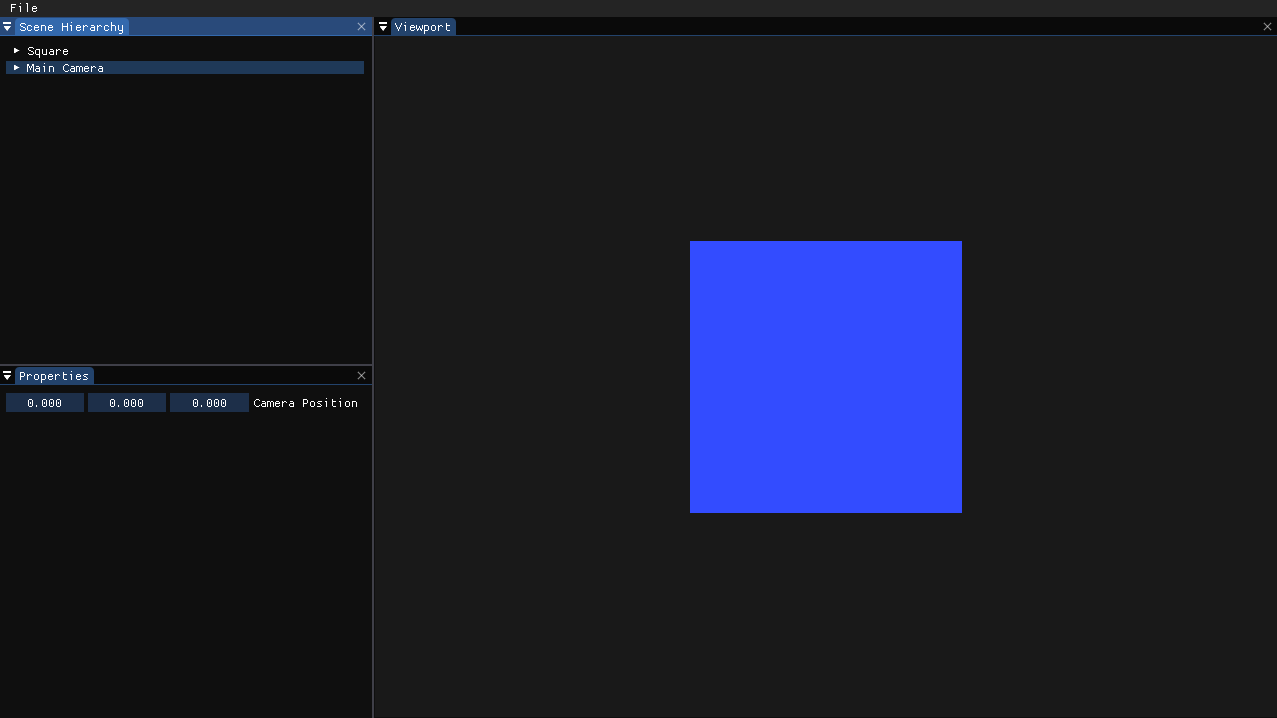
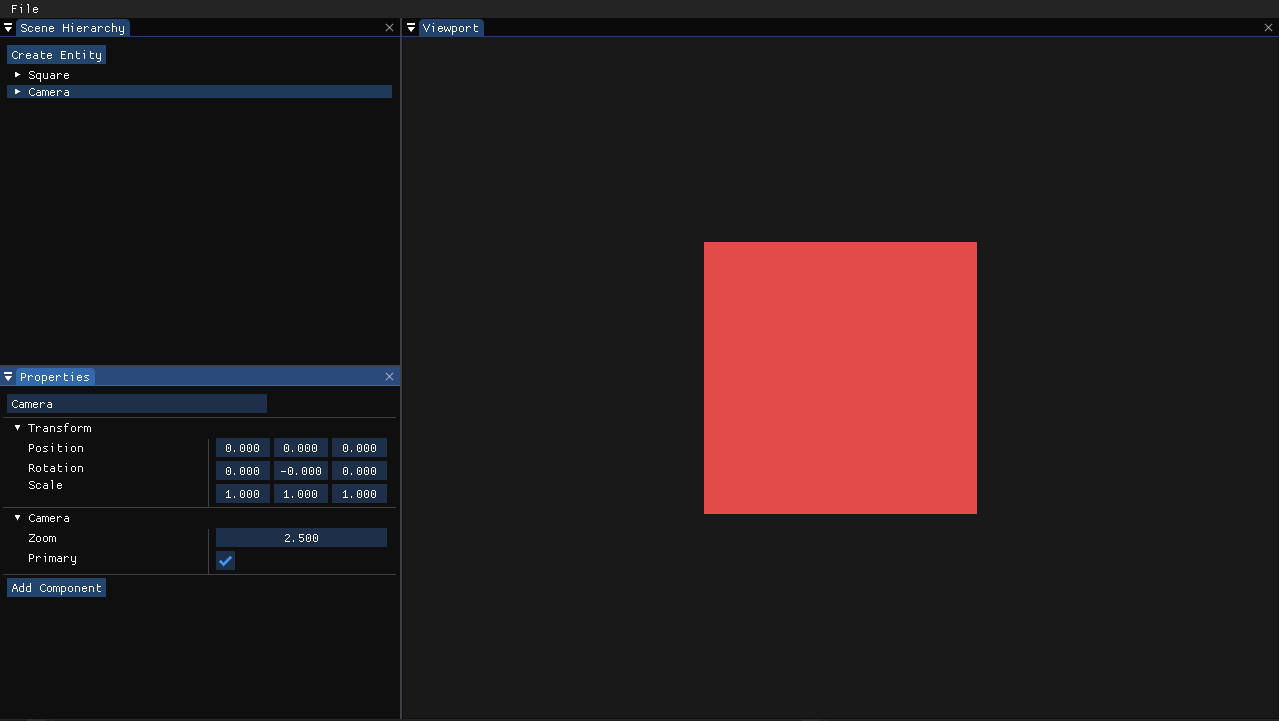
Deserialization

diff --git a/Mango/src/Mango/Scene/DataManager.cpp b/Mango/src/Mango/Scene/DataManager.cpp
@@ -25,7 +25,7 @@ namespace Mango {
 				// Tag Component
 				{
 					std::string tag = entity.GetComponent<TagComponent>().Tag;
-					j[std::to_string(ID)]["components"]["tag"] = tag;
+					j["entities"][std::to_string(ID)]["components"]["tag"] = tag;
 				}
 
 				// Transform Component
@@ -33,7 +33,7 @@ namespace Mango {
 					float4x4 mat; XMStoreFloat4x4(&mat, entity.GetComponent<TransformComponent>().Transform);
 					std::vector<float> matData; matData.resize(16);
 					memcpy(matData.data(), ValuePtr(mat), sizeof(mat));
-					j[std::to_string(ID)]["components"]["transform"] = matData;
+					j["entities"][std::to_string(ID)]["components"]["transform"] = matData;
 				}
 
 				// Camera Component
@@ -41,10 +41,11 @@ namespace Mango {
 					if (entity.HasComponent<CameraComponent>()) {
 						auto& cam = entity.GetComponent<CameraComponent>();
 						if (cam.Camera->GetType() == Camera::Type::Orthographic) {
-							j[std::to_string(ID)]["components"]["camera"]["zoom"] = std::static_pointer_cast<OrthographicCamera>(cam.Camera)->GetZoom();
+							j["entities"][std::to_string(ID)]["components"]["camera"]["type"] = "orthographic";
+							j["entities"][std::to_string(ID)]["components"]["camera"]["zoom"] = std::static_pointer_cast<OrthographicCamera>(cam.Camera)->GetZoom();
 						}
-						j[std::to_string(ID)]["components"]["camera"]["aspectRatio"] = cam.Camera->GetAspectRatio();
-						j[std::to_string(ID)]["components"]["camera"]["primary"] = cam.Primary;
+						j["entities"][std::to_string(ID)]["components"]["camera"]["aspectRatio"] = cam.Camera->GetAspectRatio();
+						j["entities"][std::to_string(ID)]["components"]["camera"]["primary"] = cam.Primary;
 					}
 				}
 
@@ -52,21 +53,74 @@ namespace Mango {
 				{
 					if (entity.HasComponent<SpriteRendererComponent>()) {
 						auto& sprite = entity.GetComponent<SpriteRendererComponent>();
-						j[std::to_string(ID)]["components"]["sprite"]["color"] = { sprite.Color.x, sprite.Color.y, sprite.Color.z, sprite.Color.w};
+						j["entities"][std::to_string(ID)]["components"]["sprite"]["color"] = { sprite.Color.x, sprite.Color.y, sprite.Color.z, sprite.Color.w};
 					}
 				}
 			}
 		}
 		
 		std::ofstream file(filename, std::ios::out);
-		MG_CORE_ASSERT(file.is_open(), "Failed to write to file '{0}'.", filename);
+		MG_CORE_ASSERT(file.is_open(), "Failed to write to scene file '{0}'.", filename);
 		file << j.dump(4);
 		file.close();
 	}
 
 	Ref<Scene> DataManager::DeserializeScene(const std::string& filename)
 	{
-		return Ref<Scene>();
+		auto scene = CreateRef<Scene>();
+
+		std::fstream file(filename);
+		MG_CORE_ASSERT(file.is_open(), "Failed to read from scene file '{0}'.", filename);
+		std::stringstream ss;
+		ss << file.rdbuf();
+		std::string scenestring = ss.str();
+		json j = json::parse(scenestring);
+
+		json& entities = j["entities"];
+		for (auto& e : entities)
+		{
+			json& components = e["components"];
+			Entity entity = scene->Create(components["tag"]);
+
+			// Transform
+			{
+				float4x4 transform;
+				std::vector<float> trans = components["transform"];
+				memcpy(&transform, trans.data(), sizeof(transform));
+				entity.GetComponent<TransformComponent>().Transform = XMLoadFloat4x4(&transform);
+			}
+
+			// Camera
+			{
+				if (components.find("camera") != components.end()) {
+					json camera = components["camera"];
+
+					if (camera["type"] == "orthographic")
+					{
+						float aspect = camera["aspectRatio"];
+						float zoom = camera["zoom"];
+						entity.AddComponent<CameraComponent>(CreateRef<OrthographicCamera>(aspect, zoom)).Primary = camera["primary"];
+					}
+					else
+					{
+						MG_CORE_ASSERT(false, "Invalid camera type.");
+					}
+				}
+			}
+
+			// Sprite
+			{
+				if (components.find("sprite") != components.end()) {
+					json sprite = components["sprite"];
+					std::vector<float> c = sprite["color"];
+					float4 color;
+					memcpy(&color, c.data(), sizeof(color));
+					entity.AddComponent<SpriteRendererComponent>(color);
+				}
+			}
+		}
+
+		return scene;
 	}
 
 }

diff --git a/MangoEditor/src/SandboxLayer.cpp b/MangoEditor/src/SandboxLayer.cpp
@@ -18,12 +18,6 @@ namespace Mango {
 		mFramebuffer = Ref<Framebuffer>(Framebuffer::Create(props));
 
 		mTexture = Ref<Texture2D>(Texture2D::Create("assets/textures/Mango.png"));
-
-		Entity entity = mScene->Create("Square");
-		entity.AddComponent<SpriteRendererComponent>(float4(0.2f, 0.3f, 1.0f, 1.0f));
-
-		mCamera = mScene->Create("Main Camera");
-		mCamera.AddComponent<CameraComponent>(Ref<Camera>(new OrthographicCamera())).Primary = true;
 	}
 
 	inline void SandboxLayer::OnUpdate(float dt) {
@@ -48,6 +42,14 @@ namespace Mango {
 		{
 			if (ImGui::BeginMenu("File"))
 			{
+				if (ImGui::MenuItem("Open")) {
+					std::string path;
+					if (FileDialog::Open(path)) {
+						mScene = DataManager::DeserializeScene(path);
+						mSceneHierarchy.SetScene(mScene.get());
+					}
+				}
+
 				if (ImGui::MenuItem("Save As")) {
 					std::string path;
 					if (FileDialog::Save(path))

diff --git a/MangoEditor/src/Panels/SceneHierarchyPanel.h b/MangoEditor/src/Panels/SceneHierarchyPanel.h
@@ -8,7 +8,8 @@ namespace Mango {
 	public:
 		SceneHierarchyPanel();
 		
-		inline void SetScene(Scene* scene) { mScene = scene; }
+		inline void SetScene(Scene* scene) { mScene = scene; ResetSelectedEntity(); }
+		inline void ResetSelectedEntity() { mSelectedEntity = ECS::Null; }
 
 		void OnImGuiRender();
 	private:

diff --git a/MangoEditor/src/SandboxLayer.h b/MangoEditor/src/SandboxLayer.h
@@ -16,7 +16,6 @@ namespace Mango {
 
 		SceneHierarchyPanel mSceneHierarchy;
 
-		Entity mCamera;
 		Ref<Framebuffer> mFramebuffer;
 		Ref<Texture2D> mTexture;
 

diff --git a/README.md b/README.md
@@ -10,10 +10,12 @@ Mango is a work in progress Game Engine. Future plans include an editor, scripti
 - 2D Rendering
 - Textures
 - Editor
+- JSON Serialisation
 - Offscreen Rendering
 
 ## Future Features
 - 3D Rendering
+- PBR Shading
 - Physics
 - C# Scripting
 - Soft Shadows
